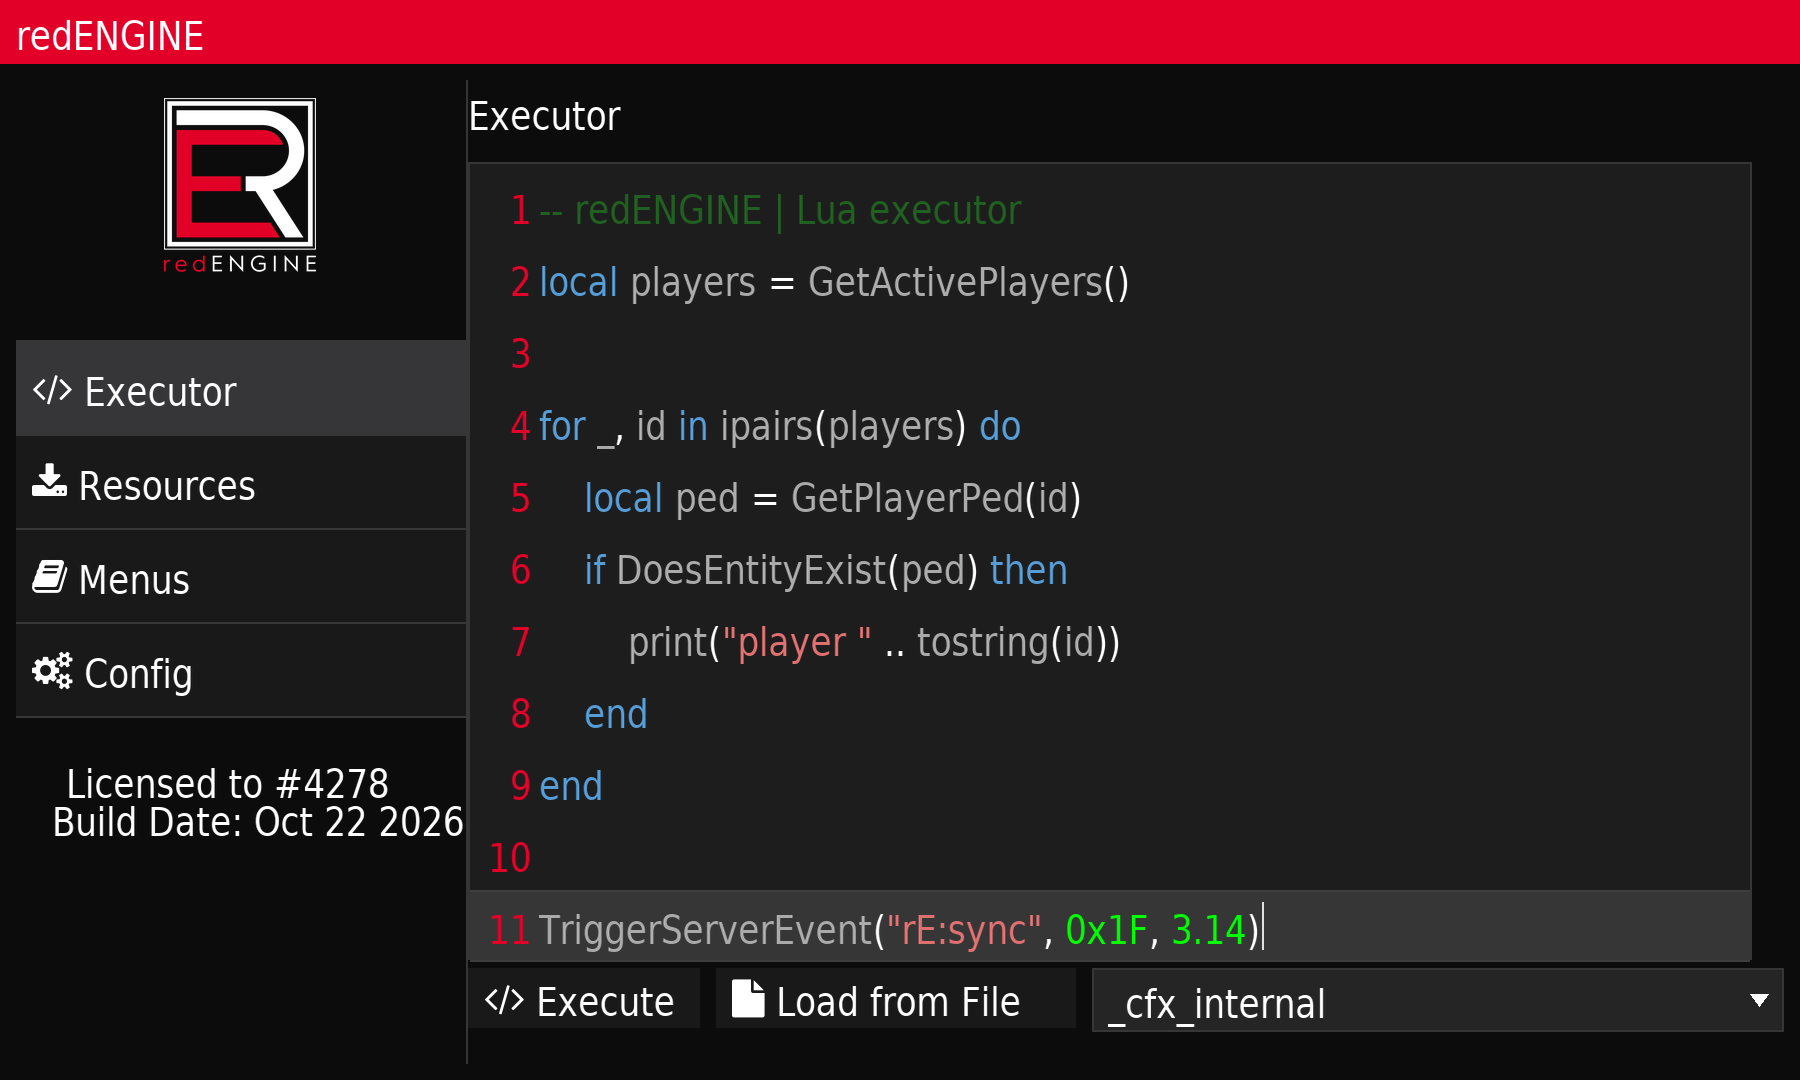
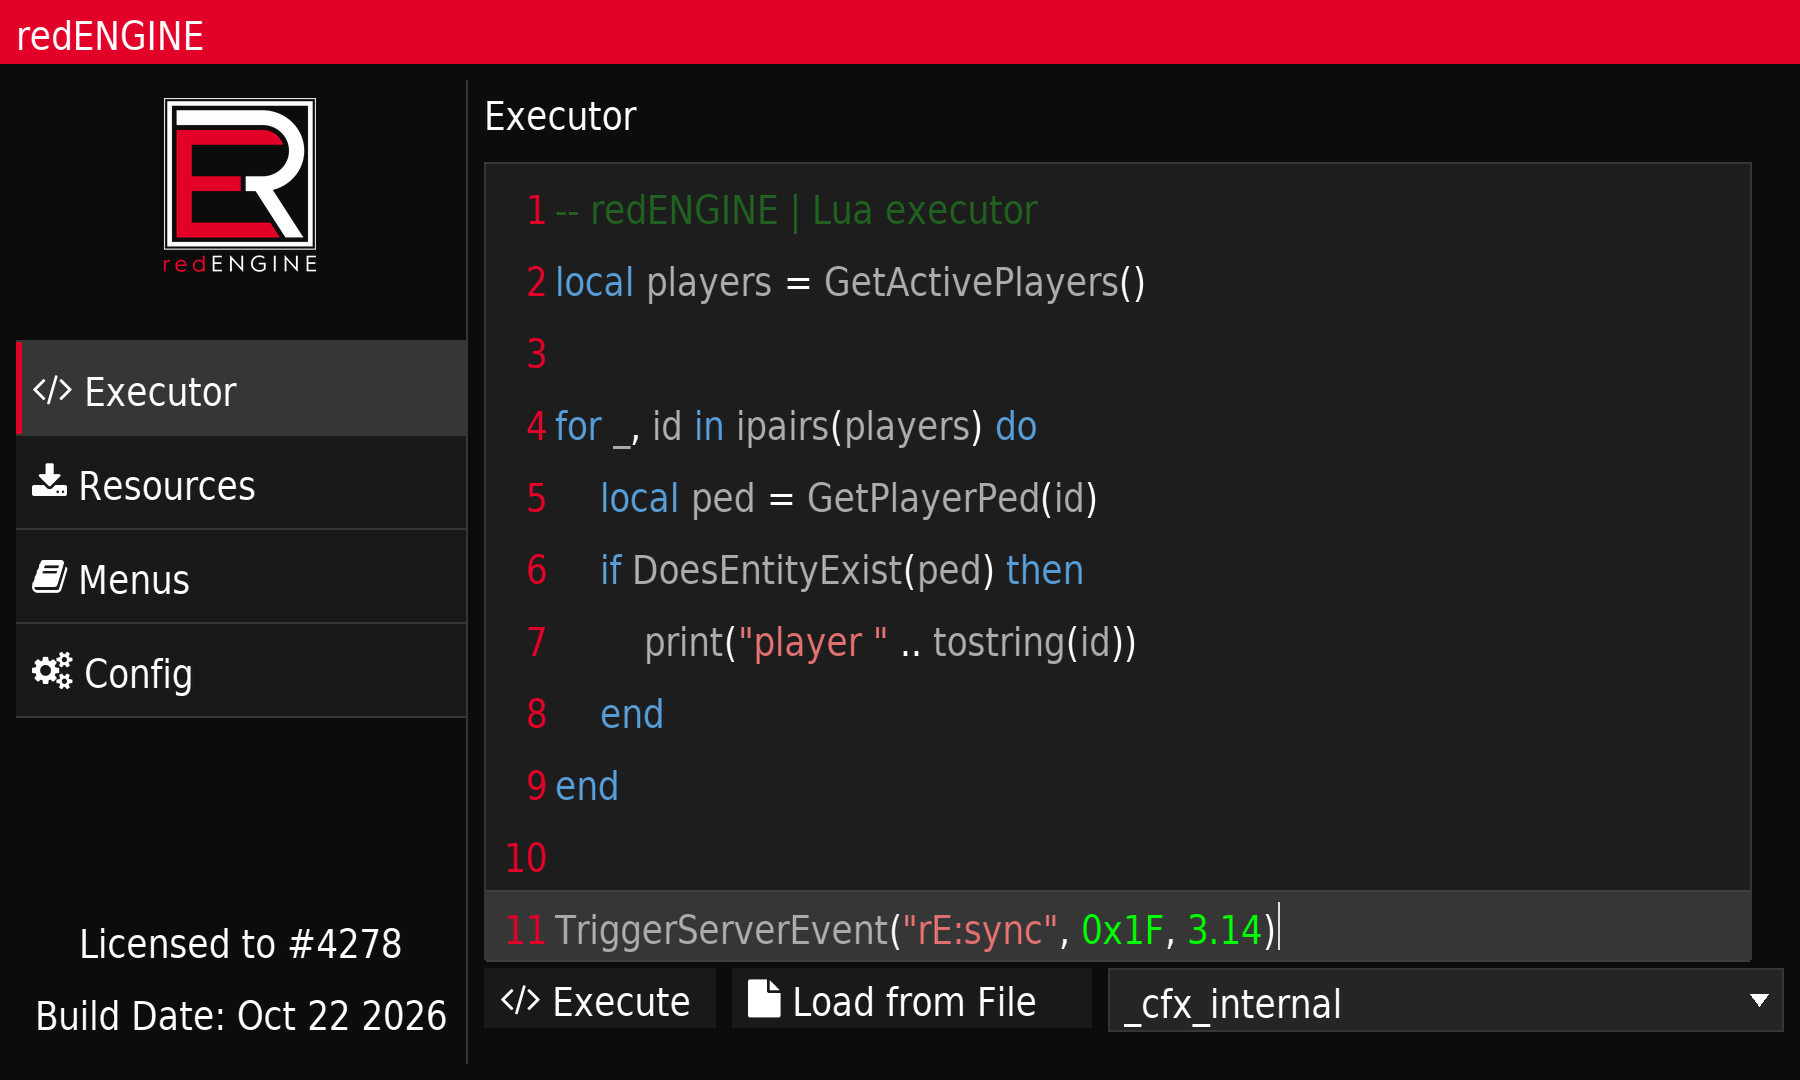
UI: mark the open tab, fix the footer overlap and the cell-vs-window sizing
Five concrete defects in the menu shell and tab bodies, none of them touching
what the tabs do - only how the chrome measures and presents itself.

Sidebar: nothing marked the open tab. Every entry drew with ImGuiCol_Button and
only the transient hover/press colour differed, so after a click the sidebar
looked exactly as before, and at startup Tab is TabDefault - not in the sidebar
- so nothing was marked at all. The selected entry now holds ButtonActive and
gets a 3px accent bar on its left edge. The footer was pinned to
SetCursorPosY(380)/(399), 19px apart and therefore overlapping by more than half
a 20px line, and tied to one window height; it is now bottom-anchored from
GetWindowHeight() with the two lines stacked by normal advance and centred.

Headings: four tabs placed their title at GetContentRegionAvail().x / 1.3f, a
magic fraction that centres nothing and aligns to nothing, while the Executor
left it flush left. Gui::SectionTitle() gives all five the same treatment.

Sizing: config.cpp measured its two panes with GetWindowWidth()/GetWindowHeight()
- the 900x540 outer window, not the table cell - and added a stray
SetCursorPosX(233), so the right pane ran 900px off the window; resources.cpp
sized three sub-tab buttons to GetWindowWidth()/4, i.e. 691px including
spacings, which does not fit the ~658px cell and clipped the third button, and
drew the file-preview editor 884px wide inside that same cell. Both now measure
[…]

diff --git a/config.cpp b/config.cpp
@@ -7,54 +7,57 @@ namespace Config
 
 	void Render()
 	{
-		ImGui::SetCursorPosX(ImGui::GetContentRegionAvail().x / 1.3f);
-		ImGui::Text("Config");
-		Gui::Seperator("##config_seperator_0");
+		Gui::SectionTitle("Config", "##config_seperator_0");
 
-		ImGui::SetCursorPosX(233);
-		ImGui::BeginChild("##config_side", ImVec2(ImGui::GetWindowWidth() / 3.0f, ImGui::GetWindowHeight()), ImGuiChildFlags_None);
+		// GetWindowWidth()/GetWindowHeight() report the *outer* window (900x540),
+		// not this table cell, so the panes were sized from the wrong box: the
+		// right-hand child came out 900px wide and ran off the window, and both
+		// children were a full window taller than the cell.  SetCursorPosX(233)
+		// then shoved the left pane another 233px to the right on top of that.
+		// Measure the cell instead.
+		const ImVec2 avail = ImGui::GetContentRegionAvail();
+		const float leftWidth = avail.x / 3.0f;
 
-		ImGui::SetCursorPosX(ImGui::GetCursorPosX() + 83);
+		ImGui::BeginChild("##config_side", ImVec2(leftWidth, avail.y), ImGuiChildFlags_None);
+
 		ImGui::Text("Safe Mode");
 		ImGui::SameLine();
 		ImGui::TextColored(ImColor(255, 0, 0, 255), "(?)"); ImGui::Spacing();
 		if (ImGui::IsItemHovered())
 			ImGui::SetTooltip("Safe mode creates a private scripting environment.");
 
-		Gui::Seperator("##config_seperator_1", ImGui::GetWindowWidth());
+		Gui::Seperator("##config_seperator_1");
 
 		ImGui::PushStyleVar(ImGuiStyleVar_FramePadding, ImVec2(10, 7));
 		ImGui::Checkbox("Enabled##safemode", &Safemode);
 		ImGui::PopStyleVar();
 
-		Gui::Seperator("##config_seperator_2", ImGui::GetWindowWidth());
-		ImGui::SetCursorPosX(ImGui::GetCursorPosX() + 57);
+		Gui::Seperator("##config_seperator_2");
 		ImGui::Text("ScriptHook Bypass");
 		ImGui::SameLine();
 		ImGui::TextColored(ImColor(255, 0, 0, 255), "(?)"); ImGui::Spacing();
 		if (ImGui::IsItemHovered())
 			ImGui::SetTooltip("Loads .ASI plugins through the ScriptHook interface.");
 
-		Gui::Seperator("##config_seperator_3", ImGui::GetWindowWidth());
+		Gui::Seperator("##config_seperator_3");
 		ImGui::PushStyleVar(ImGuiStyleVar_FramePadding, ImVec2(10, 7));
 		ImGui::Checkbox("Enabled##shbypass", &ShBypass);
 		ImGui::PopStyleVar();
 
-		Gui::Seperator("##config_seperator_4", ImGui::GetWindowWidth());
+		Gui::Seperator("##config_seperator_4");
 
 		ImGui::EndChild();
 		ImGui::SameLine();
-		Gui::Seperator("##splitter", 1, ImGui::GetWindowHeight());
+		Gui::Seperator("##splitter", 1, avail.y);
 		ImGui::SameLine();
-		ImGui::BeginChild("##server_side", ImVec2(ImGui::GetWindowWidth(), ImGui::GetWindowHeight()), ImGuiChildFlags_None);
-		ImGui::SetCursorPosX(ImGui::GetCursorPosX() + 58);
+		ImGui::BeginChild("##server_side", ImVec2(ImGui::GetContentRegionAvail().x, avail.y), ImGuiChildFlags_None);
 		ImGui::Text("Server related stuff");
 		ImGui::Spacing();
-		Gui::Seperator("##server_seperator_1", ImGui::GetWindowWidth());
+		Gui::Seperator("##server_seperator_1");
 		// Was a hardcoded "127.0.0.1" string; nothing in this build connects to a
 		// server, so don't imply that it does.
 		ImGui::TextColored(ImColor(160, 160, 160, 255), "Server IP: not connected");
-		Gui::Seperator("##server_seperator_2", ImGui::GetWindowWidth());
+		Gui::Seperator("##server_seperator_2");
 		ImGui::EndChild();
 	}
 }

diff --git a/menu.cpp b/menu.cpp
@@ -3,6 +3,7 @@
 #include "gui.h"
 #include "font_awesome.h"
 
+#include <cstdio>
 #include <string>
 
 namespace Menu
@@ -26,6 +27,14 @@ namespace Menu
 
 	// Draws the left-hand column: logo, the tab buttons, and the footer text.
 	// File-local - nothing outside this translation unit has a reason to call it.
+	// Draws one line of the sidebar footer centred in the sidebar column.
+	static void CenteredInSidebar(const char* text)
+	{
+		const float w = ImGui::CalcTextSize(text).x;
+		ImGui::SetCursorPosX(ImMax(0.0f, (SidebarWidth - w) * 0.5f));
+		ImGui::Text("%s", text);
+	}
+
 	static void RenderSidebar()
 	{
 		ImGui::SetCursorPosX(74);
@@ -52,20 +61,44 @@ namespace Menu
 			ImGui::SetCursorPosY(ImGui::GetCursorPosY() - 3);
 			ImGui::SetCursorPosX(0);
 
+			// Nothing used to mark the open tab: every entry drew with
+			// ImGuiCol_Button and only the transient hover/press colour differed,
+			// so after a click the sidebar looked exactly as before and the user
+			// could not tell which tab was open.  At startup Tab is TabDefault,
+			// which is not in the sidebar at all, so nothing was marked then
+			// either.  The selected entry now holds the pressed colour and gets a
+			// 3px accent bar on its left edge.
+			const bool active = (Tab == SidebarItems[i].tab);
+			if (active)
+				ImGui::PushStyleColor(ImGuiCol_Button, ImGui::GetStyleColorVec4(ImGuiCol_ButtonActive));
+
 			if (ImGui::Button(SidebarItems[i].label, ImVec2(SidebarWidth, SidebarButtonHeight)))
 				Tab = SidebarItems[i].tab;
+
+			if (active)
+			{
+				const ImVec2 min = ImGui::GetItemRectMin();
+				ImGui::GetWindowDrawList()->AddRectFilled(
+					ImVec2(min.x, min.y), ImVec2(min.x + 3.0f, min.y + SidebarButtonHeight), Accent);
+				ImGui::PopStyleColor();
+			}
 		}
 
 		ImGui::SetCursorPosY(ImGui::GetCursorPosY() - 4);
 		ImGui::SetCursorPosX(0);
 		Gui::Seperator("##main_seperator_5", SidebarWidth, 1.0f);
 
-		ImGui::SetCursorPosY(380);
-		ImGui::SetCursorPosX(ImGui::GetCursorPosX() + 25);
-		ImGui::Text("Licensed to #4278");
-		ImGui::SetCursorPosY(399);
-		ImGui::SetCursorPosX(ImGui::GetCursorPosX() + 18);
-		ImGui::Text("Build Date: %s", __DATE__);
+		// The footer was pinned to SetCursorPosY(380) and (399): 19px apart, less
+		// than one 20px text line, so the two strings drew on top of each other,
+		// and both were tied to one particular window height.  Anchor the block to
+		// the bottom of the sidebar and centre each line in the column instead.
+		char buildDate[64];
+		snprintf(buildDate, sizeof(buildDate), "Build Date: %s", __DATE__);
+
+		ImGui::SetCursorPosY(ImGui::GetWindowHeight() - ImGui::GetStyle().WindowPadding.y
+			- 2.0f * ImGui::GetTextLineHeightWithSpacing());
+		CenteredInSidebar("Licensed to #4278");
+		CenteredInSidebar(buildDate);
 
 		// The old layout ended with
 		//     SetCursorPosY(GetWindowHeight() - 10); Text("");
@@ -111,6 +144,8 @@ namespace Menu
 			RenderSidebar();
 
 			ImGui::TableNextColumn();
+			// See Menu::ContentPadding: keeps the tab bodies off the divider.
+			ImGui::SetCursorPosX(ImGui::GetCursorPosX() + ContentPadding);
 			Tabs::Render();
 
 			ImGui::EndTable();

diff --git a/resources.cpp b/resources.cpp
@@ -163,11 +163,13 @@ namespace Resources
 
 	void Render()
 	{
-		ImGui::SetCursorPosX(ImGui::GetContentRegionAvail().x / 1.3f);
-		ImGui::Text("Resources");
-		Gui::Seperator("##resources_seperator_2");
+		Gui::SectionTitle("Resources", "##resources_seperator_2");
 
-		const float buttonWidth = ImGui::GetWindowWidth() / 4.0f;
+		// GetWindowWidth()/4 is a quarter of the 900px *outer* window, so three of
+		// them plus two ItemSpacings (691px) did not fit the ~658px content cell
+		// and the third button was clipped by the column edge.  Divide the cell.
+		const float buttonWidth =
+			(ImGui::GetContentRegionAvail().x - 2.0f * ImGui::GetStyle().ItemSpacing.x) / 3.0f;
 		if (ImGui::Button(ICON_FA_FOLDER_OPEN " File Browser", ImVec2(buttonWidth, 33)))
 			ResourceTab = 1;
 		ImGui::SameLine();
@@ -210,7 +212,7 @@ namespace Resources
 							// Was SetText() *after* Render(), so the editor always showed
 							// the previous resource's text - one frame behind, forever.
 							dumper.SetText(std::string("--successfully dumped ") + resources[i] + ".");
-							dumper.Render("##dumper", ImVec2(ImGui::GetWindowSize().x - 16, 200));
+							dumper.Render("##dumper", ImVec2(ImGui::GetContentRegionAvail().x, 200));
 						}
 					}
 				}

diff --git a/menu.h b/menu.h
@@ -33,6 +33,16 @@ namespace Menu
 	static const float SidebarWidth        = 225.0f;
 	static const float SidebarButtonHeight = 46.0f;
 
+	// Left inset of the tab column.  The shell table uses NoPadOuterX and a
+	// (0,0) CellPadding so the sidebar keeps exactly SidebarWidth of usable
+	// width; the same flags leave the content column starting flush against the
+	// column divider, which this pushes the tab bodies away from.
+	static const float ContentPadding      = 8.0f;
+
+	// The brand red: title bar (menu_style.h), editor line numbers (the
+	// TextEditor palette) and the sidebar's selected-tab marker all share it.
+	static const ImU32 Accent              = IM_COL32(227, 0, 40, 255);
+
 	// Draws the whole menu window: sidebar column + tab content column.
 	// Implemented in menu.cpp.
 	void Render();

diff --git a/gui.h b/gui.h
@@ -31,6 +31,17 @@ namespace Gui
 		ImGui::EndChild();
 	}
 
+	// Section heading shared by every tab.  Four of the five opened with their
+	// title at GetContentRegionAvail().x / 1.3f - a magic fraction that centres
+	// nothing and aligns to nothing - while the Executor left it flush left, so
+	// the five headings sat in five different places.  One helper keeps them
+	// identical: title flush with the content column, full-width rule beneath.
+	inline void SectionTitle(const char* title, const char* separatorId)
+	{
+		ImGui::Text("%s", title);
+		Seperator(separatorId);
+	}
+
 	inline void SetGetPosX(float value)
 	{
 		ImGui::SetCursorPosX(ImGui::GetCursorPosX() + value);

diff --git a/exec.cpp b/exec.cpp
@@ -40,9 +40,7 @@ namespace Executor
 
 	void Render()
 	{
-		ImGui::Text("Executor");
-		ImGui::BeginChild("##under_text1", ImVec2(ImGui::GetContentRegionAvail().x, 1), ImGuiChildFlags_None);
-		ImGui::EndChild();
+		Gui::SectionTitle("Executor", "##under_text1");
 
 		// The Resource stopper can shrink `resources`, so keep the selection in range.
 		if (!resources.empty() && selectedResource >= (int)resources.size())

diff --git a/default.cpp b/default.cpp
@@ -7,9 +7,7 @@ namespace Default
 {
 	void Render()
 	{
-		ImGui::SetCursorPosX(ImGui::GetContentRegionAvail().x / 1.3f);
-		ImGui::Text("Default");
-		Gui::Seperator("##default_seperator_1");
+		Gui::SectionTitle("Default", "##default_seperator_1");
 		ImGui::Text("No section has been selected. Click a button on the left navbar.");
 	}
 }

diff --git a/luamenus.cpp b/luamenus.cpp
@@ -80,9 +80,7 @@ namespace Menus
 
 	void Render()
 	{
-		ImGui::SetCursorPosX(ImGui::GetContentRegionAvail().x / 1.3f);
-		ImGui::Text("Menus");
-		Gui::Seperator("##menus_seperator_1");
+		Gui::SectionTitle("Menus", "##menus_seperator_1");
 		ImGui::NewLine();
 
 		const float halfWidth = ImGui::GetContentRegionAvail().x / 2.0f;

diff --git a/BUILD.md b/BUILD.md
@@ -149,6 +149,12 @@ Separate from the build fixes above: these are bugs that compiled fine but misbe
 | 25 | Dead "Execute" / "Load from File" / "Run <menu>" buttons that silently did nothing | Load-from-file is now a real `GetOpenFileName` → editor flow; the remaining stubs say so in a message box |
 | 26 | `using namespace std;` in `config.h` leaked into every TU that included `menu.h` | Removed |
 | 27 | `"Build Date: Feb 10 2021"` hardcoded | `__DATE__` |
+| 28 | No visual indication of the open tab: every sidebar entry drew with `ImGuiCol_Button` and only the transient hover/press colour differed, so the sidebar looked identical after a click — and at startup `Tab` is `TabDefault`, which is not in the sidebar, so nothing was marked at all | The selected entry holds `ButtonActive` and gets a 3px accent bar on its left edge |
+| 29 | Sidebar footer pinned to `SetCursorPosY(380)` / `(399)` — 19px apart, less than one 20px text line — so the two strings drew on top of each other, and both were tied to one particular window height | Bottom-anchored from `GetWindowHeight()`, lines stacked by normal advance and centred in the column |
+| 30 | Tab headings sat at `GetContentRegionAvail().x / 1.3f` in four tabs (a magic fraction that centres nothing and aligns to nothing) but flush-left in the Executor — five headings, five positions | Shared `Gui::SectionTitle()` |
+| 31 | Config tab sized its panes with `GetWindowWidth()` / `GetWindowHeight()` — the 900×540 *outer* window, not the ~658×492 table cell — plus a stray `SetCursorPosX(233)`, so the right-hand pane ran 900px wide off the window | Both panes measured from `GetContentRegionAvail()` |
+| 32 | Resources sub-tab buttons sized `GetWindowWidth()/4`: 3×225 + two item spacings = 691px did not fit the ~658px cell, clipping the third button; the file-preview editor used `GetWindowSize().x` (884px) inside the same cell | Cell width divided by three / `GetContentRegionAvail()` |
+| 33 | Tab bodies started flush against the column divider (`CellPadding (0,0)` + `NoPadOuterX`), so text and widgets touched the rule | `Menu::ContentPadding` left inset applied once to the content column |
 
 ---
 
